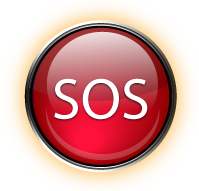
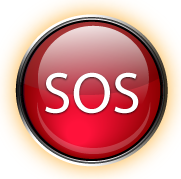
Add promotions page, edit sos image

diff --git a/lib/pages/home/home_page.dart b/lib/pages/home/home_page.dart
@@ -14,6 +14,7 @@ import 'package:hive/hive.dart';
 import 'package:shimmer/shimmer.dart';
 
 import '../../widgets/bottom_menu.dart';
+import 'feeds.dart';
 import 'home_page_header.dart';
 import 'home_top_menu.dart';
 
@@ -43,14 +44,6 @@ class _HomeState extends State<Home> {
   );
   Uint8List instituteLogo;
   bool isLogoLoaded = false;
-
-  final RegExp removeBracket =
-      RegExp("\\[(.*?)\\]", multiLine: true, caseSensitive: true);
-
-  final adText = TextStyle(
-    fontSize: ScreenUtil().setSp(70),
-    fontWeight: FontWeight.bold,
-  );
 
   final _iconText = TextStyle(
     fontSize: ScreenUtil().setSp(56),
@@ -164,16 +157,6 @@ class _HomeState extends State<Home> {
       child: Scaffold(
         key: _scaffoldKey,
         backgroundColor: Colors.transparent,
-        /* appBar: AppBar(
-          backgroundColor: Colors.transparent,
-          elevation: 0,
-          leading: IconButton(
-            icon: Icon(Icons.settings),
-            onPressed: () => Navigator.pushNamed(context, SETTINGS,
-                arguments: positionStream),
-          ),
-        ), */
-        // drawer: DrawerMenu(),
         bottomNavigationBar: BottomMenu(iconText: _iconText),
         body: SafeArea(
           child: SingleChildScrollView(
@@ -190,131 +173,7 @@ class _HomeState extends State<Home> {
                   ),
                   HomeTopMenu(iconText: _iconText),
                   SizedBox(height: ScreenUtil().setHeight(30)),
-                  feed != null
-                      ? Column(
-                          children: <Widget>[
-                            Container(
-                              height: ScreenUtil().setHeight(750),
-                              width: ScreenUtil().setWidth(1300),
-                              decoration: BoxDecoration(
-                                boxShadow: [
-                                  BoxShadow(
-                                    color: Colors.black38,
-                                    offset: Offset(0, 3),
-                                    blurRadius: 4.0,
-                                    spreadRadius: 3.0,
-                                  ),
-                                ],
-                                color: Colors.white,
-                                borderRadius: BorderRadius.circular(20),
-                              ),
-                              child: Column(
-                                children: <Widget>[
-                                  Expanded(
-                                    child: ClipRRect(
-                                      borderRadius: BorderRadius.only(
-                                        topLeft: Radius.circular(20),
-                                        topRight: Radius.circular(20),
-                                      ),
-                                      child: Image.network(
-                                        feed[0]
-                                            .feedMediaFilename
-                                            .replaceAll(removeBracket, '')
-                                            .split('\r\n')[0],
-                                        fit: BoxFit.contain,
-                                      ),
-                                    ),
-                                  ),
-                                  Container(
-                                    height: ScreenUtil().setHeight(180),
-                                    padding: EdgeInsets.symmetric(
-                                      horizontal: ScreenUtil().setWidth(70),
-                                    ),
-                                    decoration: BoxDecoration(
-                                      borderRadius: BorderRadius.only(
-                                        bottomLeft: Radius.circular(20),
-                                        bottomRight: Radius.circular(20),
-                                      ),
-                                    ),
-                                    child: Row(
-                                      mainAxisAlignment:
-                                          MainAxisAlignment.spaceBetween,
-                                      children: <Widget>[
-                                        Text(feed[0].feedDesc, style: adText),
-                                        Icon(
-                                          Icons.chevron_right,
-                                        ),
-                                      ],
-                                    ),
-                                  ),
-                                ],
-                              ),
-                            ),
-                            SizedBox(height: ScreenUtil().setHeight(80)),
-                            Container(
-                              height: ScreenUtil().setHeight(750),
-                              width: ScreenUtil().setWidth(1300),
-                              decoration: BoxDecoration(
-                                boxShadow: [
-                                  BoxShadow(
-                                    color: Colors.black38,
-                                    offset: Offset(0, 3),
-                                    blurRadius: 4.0,
-                                    spreadRadius: 3.0,
-                                  ),
-                                ],
-                                color: Colors.white,
-                                borderRadius: BorderRadius.circular(20),
-                              ),
-                              child: Column(
-                                children: <Widget>[
-                                  Expanded(
-                                    child: ClipRRect(
-                                      borderRadius: BorderRadius.only(
-                                        topLeft: Radius.circular(20),
-                                        topRight: Radius.circular(20),
-                                      ),
-                                      child: Image.network(
-                                        feed[1]
-                                            .feedMediaFilename
-                                            .replaceAll(removeBracket, '')
-                                            .split('\r\n')[0],
-                                        fit: BoxFit.contain,
-                                      ),
-                                    ),
-                                  ),
-                                  Container(
-                                    height: ScreenUtil().setHeight(180),
-                                    padding: EdgeInsets.symmetric(
-                                      horizontal: ScreenUtil().setWidth(70),
-                                    ),
-                                    decoration: BoxDecoration(
-                                      borderRadius: BorderRadius.only(
-                                        bottomLeft: Radius.circular(20),
-                                        bottomRight: Radius.circular(20),
-                                      ),
-                                    ),
-                                    child: Row(
-                                      mainAxisAlignment:
-                                          MainAxisAlignment.spaceBetween,
-                                      children: <Widget>[
-                                        Text(feed[1].feedDesc, style: adText),
-                                        Icon(
-                                          Icons.chevron_right,
-                                        ),
-                                      ],
-                                    ),
-                                  ),
-                                ],
-                              ),
-                            ),
-                          ],
-                        )
-                      : _loadingShimmer(),
-                  // Expanded(child: BottomMenu(iconText: _iconText)),
-                  // Feeds(),
-                  // HomeMenuTiles(),
-                  // HomeMenuButtons(),
+                  feed != null ? Feeds(feed: feed) : _loadingShimmer(),
                 ],
               ),
             ),

diff --git a/lib/pages/home/feeds.dart b/lib/pages/home/feeds.dart
@@ -1,56 +1,134 @@
-import 'package:epandu/app_localizations.dart';
 import 'package:flutter/material.dart';
-import 'package:epandu/utils/constants.dart';
 import 'package:flutter_screenutil/flutter_screenutil.dart';
 
 class Feeds extends StatelessWidget {
-  final image = ImagesConstant();
+  final feed;
+
+  Feeds({this.feed});
+
+  final adText = TextStyle(
+    fontSize: ScreenUtil().setSp(70),
+    fontWeight: FontWeight.bold,
+  );
+
+  final RegExp removeBracket =
+      RegExp("\\[(.*?)\\]", multiLine: true, caseSensitive: true);
 
   @override
   Widget build(BuildContext context) {
     return Column(
-      crossAxisAlignment: CrossAxisAlignment.start,
       children: <Widget>[
-        Padding(
-          padding: EdgeInsets.only(
-            left: 15.0,
-            right: 15.0,
-            top: ScreenUtil().setHeight(10),
-            bottom: 10.0,
-          ),
-          child: Text(
-            AppLocalizations.of(context).translate('feeds_lbl'),
-            style: TextStyle(
-              fontSize: 26.0,
-              fontWeight: FontWeight.w600,
-            ),
-          ),
-        ),
         Container(
-          margin: EdgeInsets.only(left: 7.0, right: 7.0, bottom: 15.0),
-          height: ScreenUtil().setHeight(800),
-          child: GridView.builder(
-            gridDelegate: SliverGridDelegateWithFixedCrossAxisCount(
-              crossAxisCount: 1,
-            ),
-            shrinkWrap: true,
-            scrollDirection: Axis.vertical,
-            itemCount: 2,
-            itemBuilder: (BuildContext context, index) {
-              return Padding(
-                padding: const EdgeInsets.symmetric(horizontal: 8.0),
-                child: InkWell(
-                  onTap: () {},
-                  borderRadius: BorderRadius.circular(20.0),
-                  child: ClipRRect(
-                    borderRadius: BorderRadius.circular(20.0),
-                    child: index % 2 == 0
-                        ? Image.asset(image.feedSample)
-                        : Image.asset(image.feedSample2),
+          height: ScreenUtil().setHeight(750),
+          width: ScreenUtil().setWidth(1300),
+          decoration: BoxDecoration(
+            boxShadow: [
+              BoxShadow(
+                color: Colors.black38,
+                offset: Offset(0, 3),
+                blurRadius: 4.0,
+                spreadRadius: 3.0,
+              ),
+            ],
+            color: Colors.white,
+            borderRadius: BorderRadius.circular(20),
+          ),
+          child: Column(
+            children: <Widget>[
+              Expanded(
+                child: ClipRRect(
+                  borderRadius: BorderRadius.only(
+                    topLeft: Radius.circular(20),
+                    topRight: Radius.circular(20),
+                  ),
+                  child: Image.network(
+                    feed[0]
+                        .feedMediaFilename
+                        .replaceAll(removeBracket, '')
+                        .split('\r\n')[0],
+                    fit: BoxFit.contain,
                   ),
                 ),
-              );
-            },
+              ),
+              Container(
+                height: ScreenUtil().setHeight(180),
+                padding: EdgeInsets.symmetric(
+                  horizontal: ScreenUtil().setWidth(70),
+                ),
+                decoration: BoxDecoration(
+                  borderRadius: BorderRadius.only(
+                    bottomLeft: Radius.circular(20),
+                    bottomRight: Radius.circular(20),
+                  ),
+                ),
+                child: Row(
+                  mainAxisAlignment: MainAxisAlignment.spaceBetween,
+                  children: <Widget>[
+                    Text(feed[0].feedDesc, style: adText),
+                    Icon(
+                      Icons.chevron_right,
+                    ),
+                  ],
+                ),
+              ),
+            ],
+          ),
+        ),
+        SizedBox(height: ScreenUtil().setHeight(80)),
+        Container(
+          height: ScreenUtil().setHeight(750),
+          width: ScreenUtil().setWidth(1300),
+          decoration: BoxDecoration(
+            boxShadow: [
+              BoxShadow(
+                color: Colors.black38,
+                offset: Offset(0, 3),
+                blurRadius: 4.0,
+                spreadRadius: 3.0,
+              ),
+            ],
+            color: Colors.white,
+            borderRadius: BorderRadius.circular(20),
+          ),
+          child: Column(
+            children: <Widget>[
+              Expanded(
+                child: ClipRRect(
+                  borderRadius: BorderRadius.only(
+                    topLeft: Radius.circular(20),
+                    topRight: Radius.circular(20),
+                  ),
+                  child: Image.network(
+                    feed[1]
+                        .feedMediaFilename
+                        .replaceAll(removeBracket, '')
+                        .split('\r\n')[0],
+                    fit: BoxFit.contain,
+                  ),
+                ),
+              ),
+              Container(
+                height: ScreenUtil().setHeight(180),
+                padding: EdgeInsets.symmetric(
+                  horizontal: ScreenUtil().setWidth(70),
+                ),
+                decoration: BoxDecoration(
+                  borderRadius: BorderRadius.only(
+                    bottomLeft: Radius.circular(20),
+                    bottomRight: Radius.circular(20),
+                  ),
+                ),
+                child: Row(
+                  mainAxisAlignment: MainAxisAlignment.spaceBetween,
+                  children: <Widget>[
+                    Text(feed[1].feedDesc, style: adText),
+                    Icon(
+                      Icons.chevron_right,
+                    ),
+                  ],
+                ),
+              ),
+            ],
           ),
         ),
       ],

diff --git a/lib/widgets/bottom_menu.dart b/lib/widgets/bottom_menu.dart
@@ -15,7 +15,7 @@ class BottomMenu extends StatelessWidget {
   @override
   Widget build(BuildContext context) {
     return Container(
-      height: ScreenUtil().setHeight(400),
+      height: ScreenUtil().setHeight(450),
       color: Colors.transparent,
       child: Stack(
         children: <Widget>[

diff --git a/lib/pages/promotions/promotions_page.dart b/lib/pages/promotions/promotions_page.dart
@@ -1,0 +1,15 @@
+import 'package:flutter/material.dart';
+
+class Promotions extends StatelessWidget {
+  final feed;
+
+  Promotions({this.feed});
+
+  @override
+  Widget build(BuildContext context) {
+    return Scaffold(
+      appBar: AppBar(),
+      body: Container(),
+    );
+  }
+}

diff --git a/lib/pages/promotions/promotions.dart b/lib/pages/promotions/promotions.dart
@@ -1,0 +1,1 @@
+export 'promotions_page.dart';
